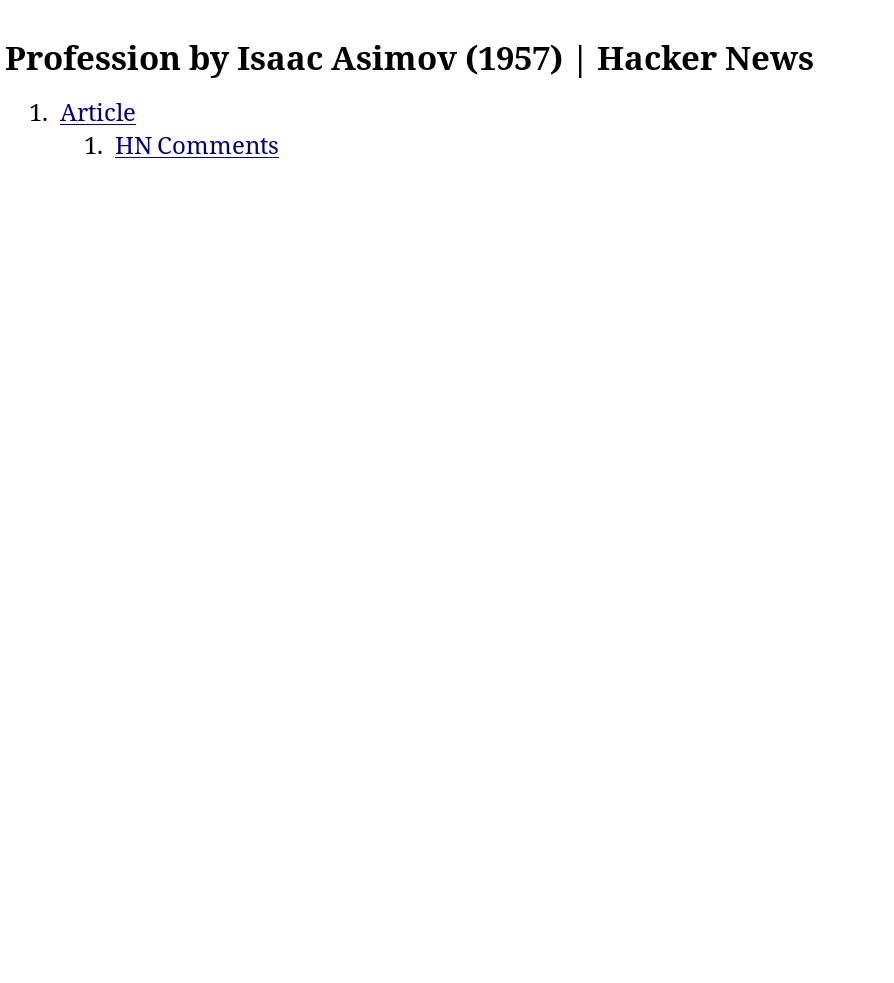
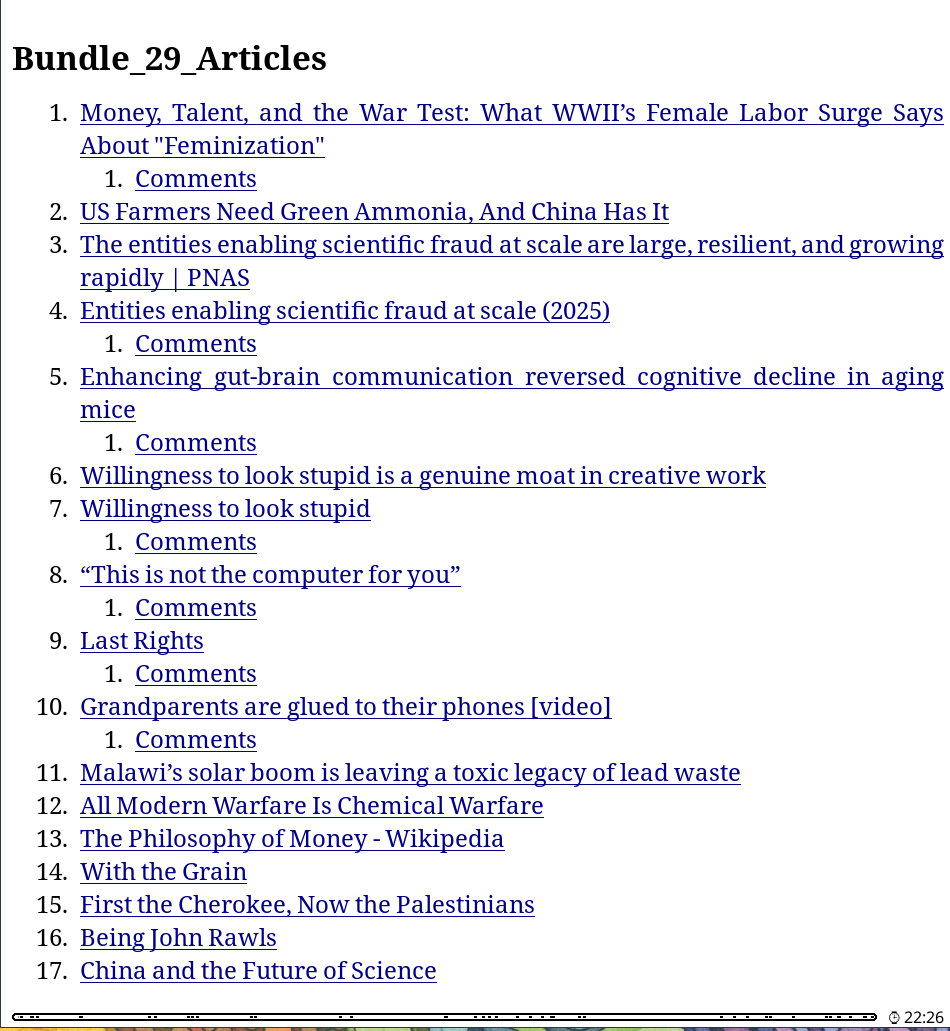
Update README screenshots

Changed region(s): [[0.0, 0.0305, 1.0, 1.0]]

diff --git a/readme.md b/readme.md
@@ -10,18 +10,24 @@ It is built for the "57 tabs I'll read later" problem: make an book out of it.
 
 ## Screenshots
 
-| Extension popup and queue | KOReader output |
+| Extension popup | Table of contents |
 | --- | --- |
-| <img src="screenshot/Screenshot_20260118_155731.png" width="100%" alt="Dala extension popup" /> | <img src="screenshot/Screenshot_20260118_155753.png" width="100%" alt="EPUB output in KOReader" /> |
+| <img src="screenshot/Screenshot_20260118_155731.png" width="100%" alt="Dala extension popup with output, image, summary, date range, forum, and translation options" /> | <img src="screenshot/Screenshot_20260118_155753.png" width="100%" alt="KOReader table of contents for a bundled EPUB" /> |
 
-| Thread navigation | Bundle workflow |
+| Table of contents navigation | Article output |
 | --- | --- |
-| <img src="screenshot/Screenshot_20260118_162833.png" width="100%" alt="Threaded comment output" /> | <img src="screenshot/Screenshot_20260118_163015.png" width="100%" alt="Bundle queue workflow" /> |
+| <img src="screenshot/Screenshot_20260118_162833.png" width="100%" alt="KOReader table of contents with nested comment entries" /> | <img src="screenshot/Screenshot_20260118_163015.png" width="100%" alt="Article output with source metadata and readable typography" /> |
 
 <p align="center">
-  <img src="screenshot/Screenshot_20260118_155810.png" width="45%" alt="Dala settings screen" />
+  <img src="screenshot/Screenshot_20260118_155810.png" width="45%" alt="Threaded comments with e-reader navigation controls" />
   <br />
-  <em>Extension settings for output, images, translation, and server options.</em>
+  <em>Threaded comments with e-reader navigation controls.</em>
+</p>
+
+<p align="center">
+  <img src="screenshot/translation-underneath.png" width="70%" alt="Underneath translation layout showing translated text below each original paragraph" />
+  <br />
+  <em>Underneath translation layout for bilingual reading.</em>
 </p>
 
 ## Quick Start
@@ -78,7 +84,7 @@ Server-side browser setup uses Dala's optional Python browser-control support pl
 | PDF | Document and e-reader presets through server-side browser rendering |
 | Bundles | Multiple pages combined into one anthology-style file |
 | Images | Compact, Balanced, or Full presets; optional grayscale conversion |
-| Translation | LLM or Google Translate; underneath, side-by-side, EPUB footnote, or replace modes |
+| Translation | LLM or Google Translate; underneath, side-by-side inspired by [Bitextual](https://github.com/wydengyre/bitextual), EPUB footnote, or replace modes |
 | Summaries | Optional LLM-generated summaries for long articles, discussions, forums, and transcripts |
 
 ## Common Workflows